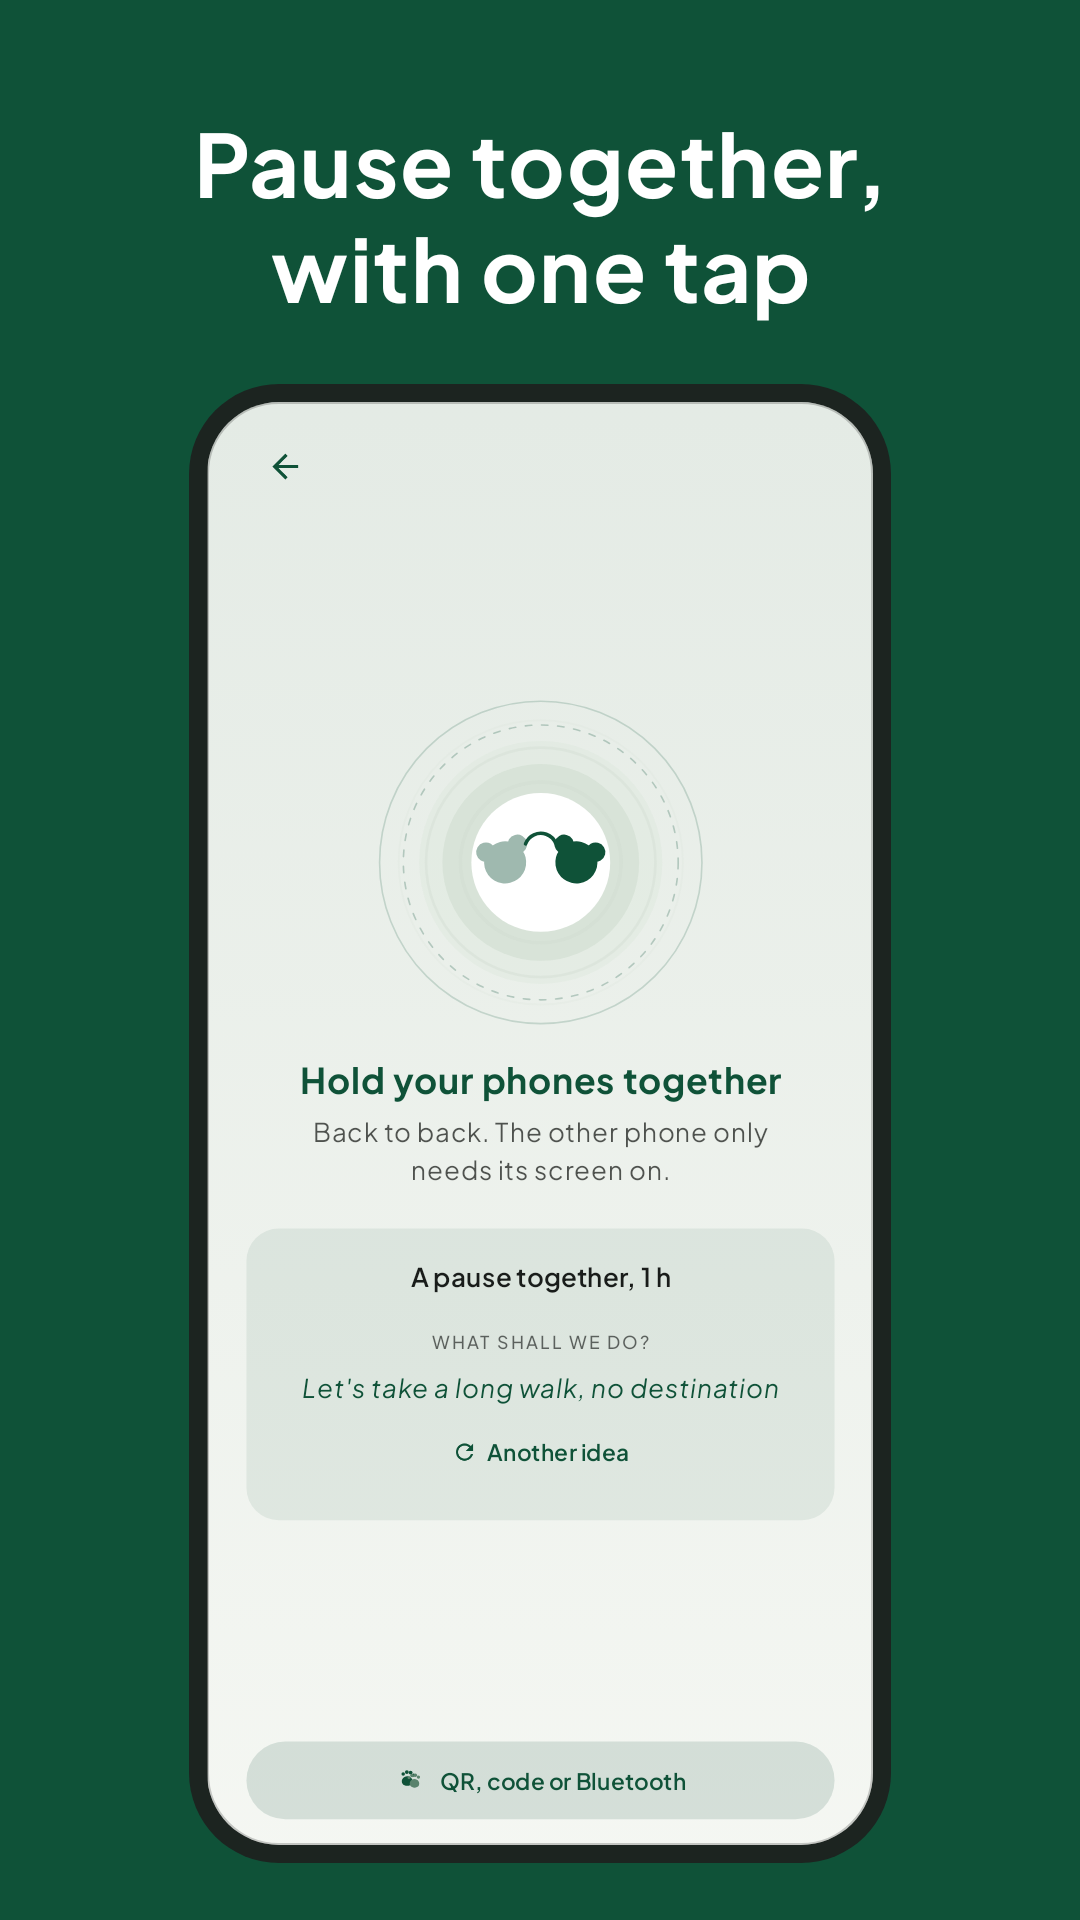
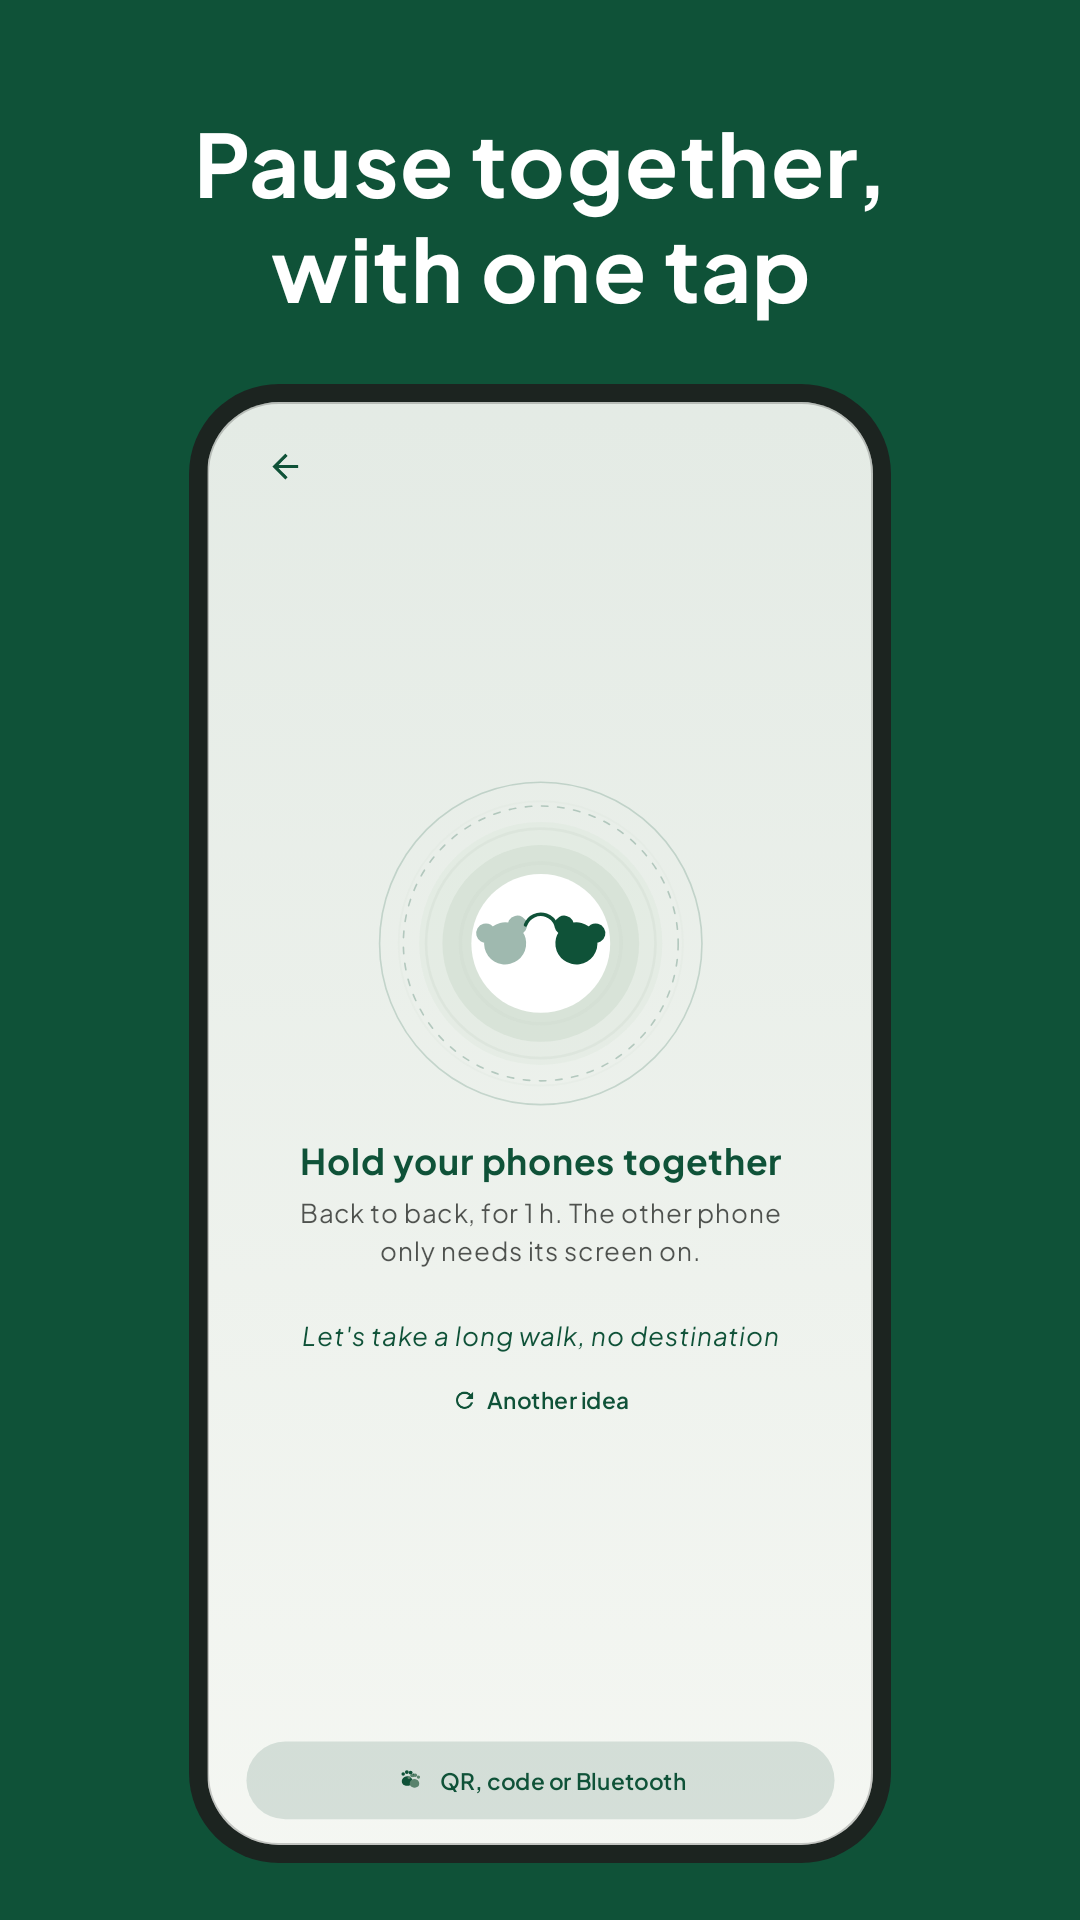
0.4.0: note di rilascio, screenshot della scheda Play e del README
Note pensate per chi passa dalla 0.2 (la 0.3.0 non è arrivata in
produzione): Home più calma, tocco NFC, "Esci dopo 10 minuti", niente più
app Home, "Valuta su Google Play". Screenshot di Play rigenerati
(StoreScreenshotsTest); quelli del README presi dalle immagini di
riferimento dei test, tutte nello stesso stile.

Claude-Session: https://claude.ai/code/session_01KwuuLxq878rqiSyn3QCMG4

Changed region(s): [[0.275, 0.5312, 0.7333, 0.7812], [0.4278, 0.4062, 0.5806, 0.5312]]

diff --git a/README.md b/README.md
@@ -9,8 +9,8 @@ just you, your phone, and a bit of quiet.
   <img src="docs/screenshots/home.png" width="160" alt="Home: tap the otter, pick a duration" />
   <img src="docs/screenshots/paused.png" width="160" alt="A pause in progress" />
   <img src="docs/screenshots/closing.png" width="160" alt="How was it? The closing moment after a pause" />
-  <img src="docs/screenshots/history.png" width="160" alt="History with the weekly chart and time spent together" />
-  <img src="docs/screenshots/tempo_insieme.png" width="160" alt="Time together: the host's lobby with a suggested activity" />
+  <img src="docs/screenshots/history.png" width="160" alt="History: the week at a glance" />
+  <img src="docs/screenshots/tempo_insieme.png" width="160" alt="Time together: hold the phones back to back, with a suggested activity" />
 </p>
 
 ## How it works
